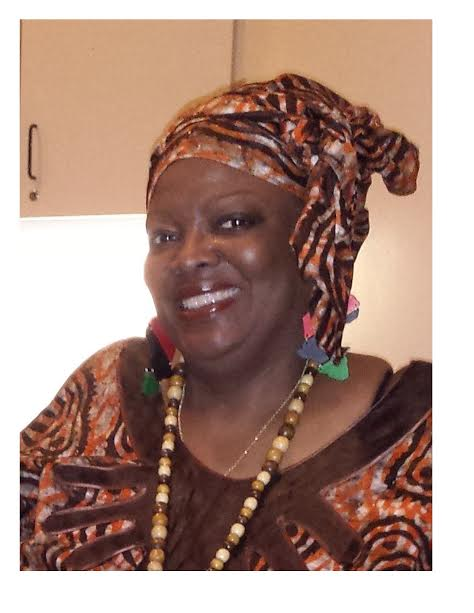
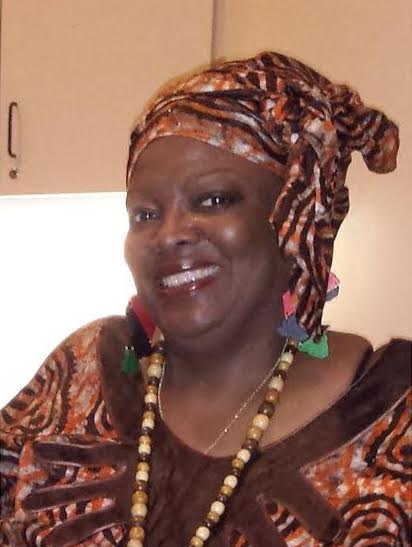
fixed up staff page

diff --git a/alenaStaff.html b/alenaStaff.html
@@ -1,185 +1,164 @@
-
-
 <!DOCTYPE html>
 <html lang="en">
 
 <head>
     <title> Imani Unidad </title>
-    <meta charset="utf-8">
-    <link rel="stylesheet" href="master.css">
+    <meta charset="utf-8" name="viewport" content="width=device-width, initial-scale=1.0">
     <link rel="stylesheet" href="https://maxcdn.bootstrapcdn.com/bootstrap/3.3.2/css/bootstrap.min.css">
+    <link rel="stylesheet" href="master.css">
     <script src="https://ajax.googleapis.com/ajax/libs/jquery/1.11.2/jquery.min.js"></script>
     <script src="https://maxcdn.bootstrapcdn.com/bootstrap/3.3.2/js/bootstrap.min.js"></script>
     <link href="https://fonts.googleapis.com/css?family=Bungee+Shade" rel="stylesheet">
     <link href="https://fonts.googleapis.com/css?family=Monoton" rel="stylesheet">
     <link href="https://fonts.googleapis.com/css?family=Ubuntu" rel="stylesheet">
 
+
 </head>
 
 <body>
-    <div class="container">
-        <nav class="navbar navbar-default navbar-fixed-top stroke" id="navbar">
-            <div class="container">
-                <div class="navbar-header">
-                    <a id="title" class="navbar-brand href=#"> Imani Unidad </a>
-                </div>
-                <ul class="nav navbar-nav text-center">
-                    <li><a href="alenaIndex.html">Home</a></li>
-
-                    <li class="dropdown"><a href="#" class="dropdown-toggle" data-toggle="dropdown">About Us
-                            <span class="caret"></span>
-                        </a>
-                        <ul class="dropdown-menu" role="menu">
-                            <li><a href="alenaHistory.html">History</a></li>
-                            <li><a href="alenaStaff.html">Staff</a></li>
-                        </ul>
-                    </li>
-
-                    <li><a href="patrickServicesAndResources.html">Services</a></li>
-
-
-                    <li><a href="links.html">Important Links</a></li>
-
-                    <li><a href="alenaContact.html">Contact Us</a></li>
-
-                    <li><a href="alenaGetInvolved.html">Get Involved </a></li>
-
-                    <li class="dropdown"><a href="#" class="dropdown-toggle" data-toggle="dropdown"> Educational
-                            <span class="caret"></span>
-                        </a>
-                        <ul class="dropdown-menu" role="menu">
-
-                            <li class="dropdown-submenu pull-left"><a href="#" class="dropdown-toggle" data-toggle="dropdown"> Tests and Surveys
-                                    <span class="caret"></span>
-                                </a>
-                                <ul class="dropdown-menu" role="menu">
-                                    <li><a href="patrickPreventionPreEval.html">Prevention Knowledge Pre-Evaluation</a></li>
-                                    <li><a href="patrickPreventionPostEval.html">Prevention Knowledge Post-Evaluation</a></li>
-                                    <li><a href="patrickWorkshopEval.html">Workshop Evaluation Questionnaire</a></li>
-                                    <li><a href="patrickImagine.html">"Imagine a Sexual Human" Reflection</a></li>
-                                </ul>
-
-                            </li>
-
-                            <li><a href="patrickDefinitions.html">Definitions</a></li>
-                        </ul>
-                    </li>
-                </ul>
+    <div class = "container" >
+        <nav class="navbar navbar-default navbar-fixed-top">
+          <div class="container">
+            <div class="navbar-header">
+              <button type="button" class="navbar-toggle collapsed" data-toggle="collapse" data-target="#navbar" aria-expanded="false" aria-controls="navbar">
+                <span class="sr-only">Toggle navigation</span>
+                <span class="icon-bar"></span>
+                <span class="icon-bar"></span>
+                <span class="icon-bar"></span>
+              </button>
+              <a id="title" class="navbar-brand" href="#">Imani Unidad</a>
             </div>
-            <div id="head" class="container-fluid">
-                <div id="header-background">
-                    <h1 id="pictureText">Staff</h1>
-                </div>
-            </div>
-        </nav>
+            <div id="navbar" class="navbar-collapse collapse">
+              <ul class="nav navbar-nav">
+                <li><a href="alenaIndex.html">Home</a></li>
 
-    </div>
+                        <li class="dropdown"><a href="#" class="dropdown-toggle" data-toggle="dropdown">About Us
+                                <span class="caret"></span>
+                            </a>
+                            <ul class="dropdown-menu" role="menu">
+                                <li><a href="alenaHistory.html">History</a></li>
+                                <li><a href="alenaStaff.html">Staff</a></li>
+                            </ul>
+                        </li>
 
-    <div class = "container" id="staff">
-
-      <div class="row1">
-        <div class="col-md-3">
-            <h1>Staff</h1>
-        </div>
-      </div>
-    </div>
-
-    <div class="container">
-        <div class="row1">
-
-            <div class="col-md-3">
-              <div class="staffpics">
-              <img src="img/debra.jpg" height= "200px" width="220px">
-              </div>
-            </div>
-
-            <div class="col-md-8">
-              <div id="staffname">
-              <h3>
-                Debra Stanley
-              </h3>
-              <p> Debra Stanley is the founder and Executive Director of Imani Unidad Inc. Mrs. Stanley is
-                responsible for the organization’s consistent achievement of its mission and day-to-day operations.
-                She directs the development and management of Imani Unidad’s programs as well as serves her community
-                through advocacy, education, and her unwavering commitment to social and behavioral health and justice.
-              </p>
-              </div>
-
-            </div>
+                        <li><a href="patrickServicesAndResources.html">Services</a></li>
 
 
-        </div>
-    </div>
+                        <li><a href="links.html">Important Links</a></li>
 
+                        <li><a href="alenaContact.html">Contact Us</a></li>
 
+                        <li><a href="alenaGetInvolved.html">Get Involved </a></li>
 
+                        <li class="dropdown"><a href="#" class="dropdown-toggle" data-toggle="dropdown"> Educational
+                                <span class="caret"></span>
+                            </a>
+                            <ul class="dropdown-menu" role="menu">
 
+                                <li class="dropdown-submenu pull-left"><a href="#" class="dropdown-toggle" data-toggle="dropdown"> Tests and Surveys
+                                        <span class="caret"></span>
+                                    </a>
+                                    <ul class="dropdown-menu" role="menu">
+                                        <li><a href="patrickPreventionPreEval.html">Prevention Knowledge Pre-Evaluation</a></li>
+                                        <li><a href="patrickPreventionPostEval.html">Prevention Knowledge Post-Evaluation</a></li>
+                                        <li><a href="patrickWorkshopEval.html">Workshop Evaluation Questionnaire</a></li>
+                                        <li><a href="patrickImagine.html">"Imagine a Sexual Human" Reflection</a></li>
+                                    </ul>
 
+                                </li>
 
-    <div class="container">
-        <div class="row1">
-
-            <div class="col-md-3">
-                <div class="staffpics">
-                  <img src="img/baye.jpg" height= "200px" width="220px">
-                </div>
-            </div>
-
-
-            <div class="col-md-9">
-              <div id="staffname">
-              <h3>
-              Baye Sylvester
-              </h3>
-              <p>“Coming in from the cold- With a passion for life and knowing that the struggle for empowerment in self
-                and community demands focus.  My position here at Imani Unidad represents a natural progression in my effort
-                to be of service. As the group coordinator for Peer to Peer (P2P), I have the unique pleasure of helping
-                to shape a community asset that I rely upon for my own sustenance. My position isn’t mine I like to say,
-                but rather it is the product of the people entrusted to me while I am here.”
-              </p>
-            </div>
-              </div>
-
-
-        </div>
-    </div>
-
-    <div class="container">
-        <div class="row1">
-
-            <div class="col-md-3">
-                <div class="staffpics">
-              <img src="img/rose.jpg" height= "200px" width="220px">
-                </div>
-            </div>
-
-            <div class="col-md-9">
-                <div id="staffname">
-              <h3>
-                Rose Clark
-              </h3>
-              <p>Rose Clark is a Licensed Clinical Social Worker who received her Masters of Social Work
-                from Indiana University. In addition to providing therapeutic services, Mrs. Clark also supervises
-                the counseling staff and interns here at Imani Unidad. She is also a trainer for the ACE program,
-                a service designed to identify and combat the effects of trauma within the lives of our clients.
-              </p>
-            </div>
+                                <li><a href="patrickDefinitions.html">Definitions</a></li>
+                            </ul>
+                        </li>
+                
+              </ul>
+            </div><!--/.nav-collapse -->
           </div>
 
-
+        <div id="head" class="container-fluid">
+                    <div id="header-background">
+                        <h1 id="pictureText">Staff</h1>
+                    </div>
         </div>
+    </nav>
+</div>
+
+<div class="container" id="staff">
+
+  <div class="row">
+    <div class="col-md-3">
+        <h1 id="bootstrap-overrides"></h1>
     </div>
+  </div>
 
+  <div class="row" id="staff-section">
+    <div class="col-md-2">
+      <img src="img/debrastaff.jpg" width="160" alt="Debra">
+    </div>
+    <div class="col-md-8">
+      <h2>Debra Stanley</h2>
+      <p>Debra Stanley is the founder and Executive Director of Imani Unidad Inc. Mrs. Stanley is
+        responsible for the organization’s consistent achievement of its mission and day-to-day operations.
+        She directs the development and management of Imani Unidad’s programs as well as serves her community
+        through advocacy, education, and her unwavering commitment to social and behavioral health and justice.</p>
+    </div>
+  </div>
 
-    <div class="fluid-container">
+  <div class="row" id="staff-section">
+    <div class="col-md-2">
+      <img src="img/baye.jpg" width= "160" alt="Baye">
+    </div>
+    <div class="col-md-8">
+      <h2>Baye Sylvester</h2>
+      <p>CLEAR Counselor: "Coming in from the cold- With a passion for life and knowing that the struggle for empowerment in self
+        and community demands focus.  My position here at Imani Unidad represents a natural progression in my effort
+        to be of service. As the group coordinator for Peer to Peer (P2P), I have the unique pleasure of helping
+        to shape a community asset that I rely upon for my own sustenance. My position isn’t mine I like to say,
+        but rather it is the product of the people entrusted to me while I am here.”</p>
+    </div>
+  </div>
+
+  <div class="row" id="staff-section">
+    <div class="col-md-2">
+      <img src="img/rose.jpg" width= "160" alt="Rose">
+    </div>
+    <div class="col-md-8">
+      <h2>Rose Clark</h2>
+      <p>Rose Clark is a Licensed Clinical Social Worker who received her Masters of Social Work
+        from Indiana University. In addition to providing therapeutic services, Mrs. Clark also supervises
+        the counseling staff and interns here at Imani Unidad. She is also a trainer for the ACE program,
+        a service designed to identify and combat the effects of trauma within the lives of our clients.</p>
+    </div>
+  </div>
+
+  <hr style="border: 1px solid #132c86">
+
+  <div class="row" id="staff-section">
+      <div class="col-md-12">
+        <h2>Board Members</h2>
+        <p><b>President:</b> Latorya Greene, Tobacco Education Coordinator, Saint Joseph Health System </p>
+        <p><b>Vice-President:</b> Gerri Griffin, BSN, RN, Executive Director Slice of Life Youth Development Group</p>
+        <p><b>Secretary:</b> Ray Davis, Secretary to the Principal Community Member/ Rhythm & Blues Singer</p>
+        <p><b>Treasurer:</b> Rasheeda Lewandowski, Process Analyst, Zentis North America Financial</p>
+        <p><b>Program Chair:</b> Bill Anderson, Executive Director, It's Possible, Inc. </p>
+        <p><b>Health & Welness Chair:</b> Maxie Bolden, Jr., Pharmacist, Beacon Health System</p>
+        <p><b>Fundraising Committee Chair:</b> Kirstin Champer, Community Health Worker</p>
+        <p><b>Board Member:</b> Darryl Heller, Executive Director, Civil Rights Heritage Center</p>
+        <p><b>Board Member:</b> Betty Tacy, Consumer Advocate</p>
+        <p><b>Board Member:</b> Pat Miller, CRSC/CLEAR Counselor</p>
+      </div>
+  </div>
+
+</div>
+
+    </div>
         <footer class="footer">
             <div id="footText" class="container">
-                <span class="text-muted">914 Lincoln Way W South Bend, IN 46616 | (574) 288-2887 and email</span>
+                <span class="text-muted">914 Lincoln Way W South Bend, IN 46616 | (574) 288-2887 | info@imaniunidadinc.org</span>
             </div>
         </footer>
-    </div>
 
-    <script src="https://code.jquery.com/jquery-3.2.1.slim.min.js" integrity="sha384-KJ3o2DKtIkvYIK3UENzmM7KCkRr/rE9/Qpg6aAZGJwFDMVNA/GpGFF93hXpG5KkN" crossorigin="anonymous"></script>
+        <script src="https://code.jquery.com/jquery-3.2.1.slim.min.js" integrity="sha384-KJ3o2DKtIkvYIK3UENzmM7KCkRr/rE9/Qpg6aAZGJwFDMVNA/GpGFF93hXpG5KkN" crossorigin="anonymous"></script>
     <script src="https://cdnjs.cloudflare.com/ajax/libs/popper.js/1.12.9/umd/popper.min.js" integrity="sha384-ApNbgh9B+Y1QKtv3Rn7W3mgPxhU9K/ScQsAP7hUibX39j7fakFPskvXusvfa0b4Q" crossorigin="anonymous"></script>
     <script src="https://maxcdn.bootstrapcdn.com/bootstrap/4.0.0/js/bootstrap.min.js" integrity="sha384-JZR6Spejh4U02d8jOt6vLEHfe/JQGiRRSQQxSfFWpi1MquVdAyjUar5+76PVCmYl" crossorigin="anonymous"></script>
 

diff --git a/master.css b/master.css
@@ -210,6 +210,10 @@ button {
     color: #539537;
 }
 
+#staff-section {
+    padding:  0px 0px 20px 0px;
+}
+
 .carousel {
     width: auto;
     height:auto;
